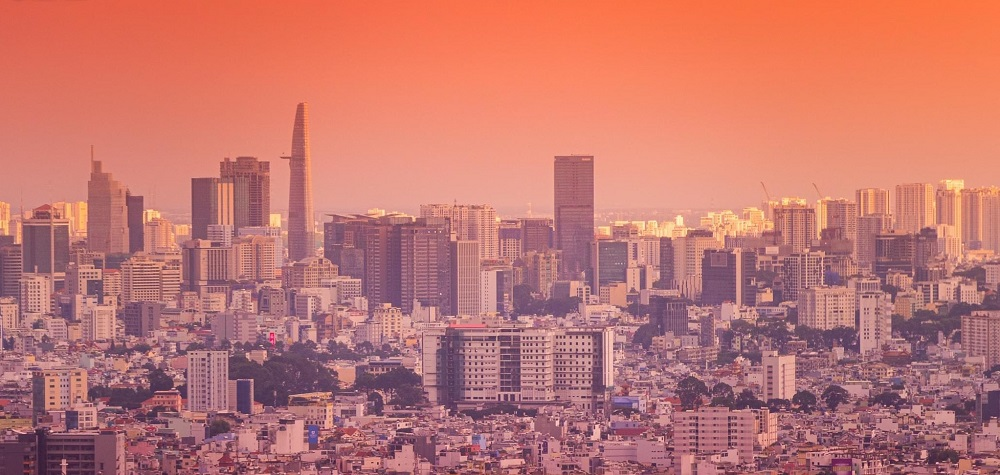
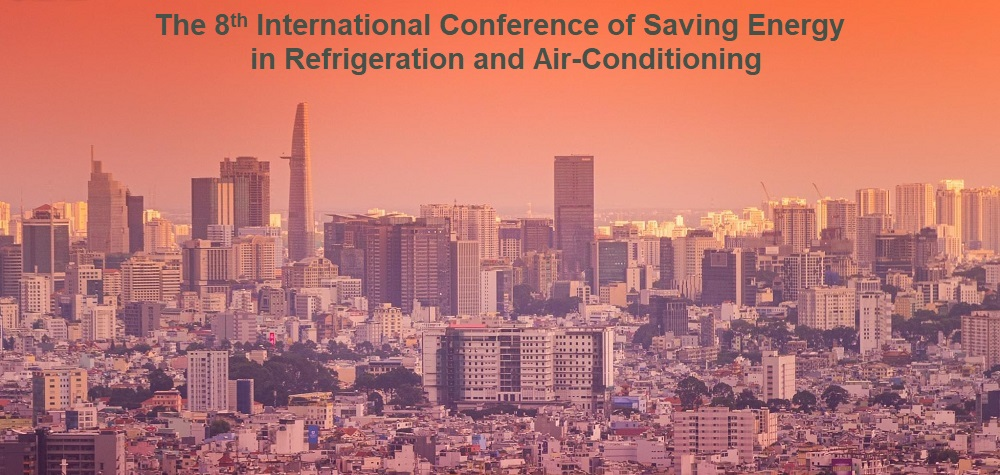
Update

Changed region(s): [[0.155, 0.0295, 0.868, 0.1768]]

diff --git a/index.html b/index.html
@@ -18,7 +18,7 @@
         <img src="assets/banner1.jpg" alt="Conference Template Banner">
         <div class="top-left">
             <span class="title1">ICSERA2024</span>
-            <span class="title2"> The 8th International Conference of Saving Energy in Refrigeration and Air-Conditioning</span> 
+            <span class="title2"></span> 
             <span class="year"></span>
         </div>
         <div class="bottom-right">
